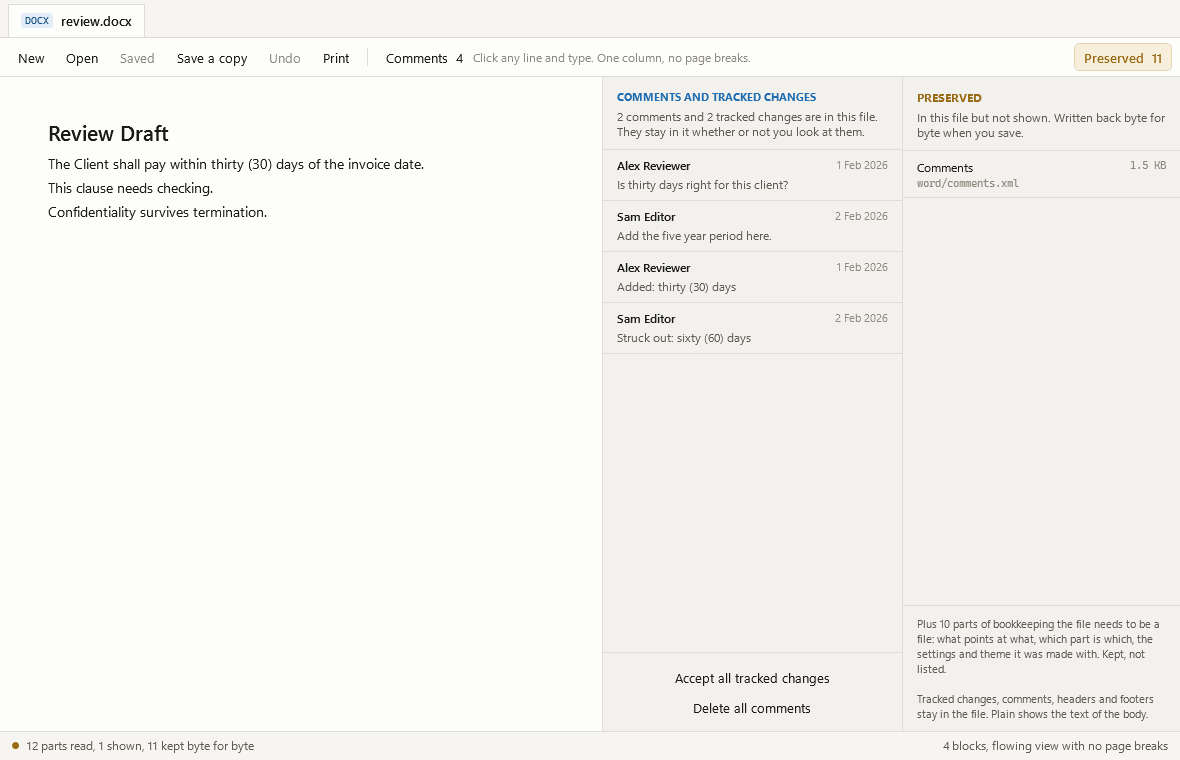
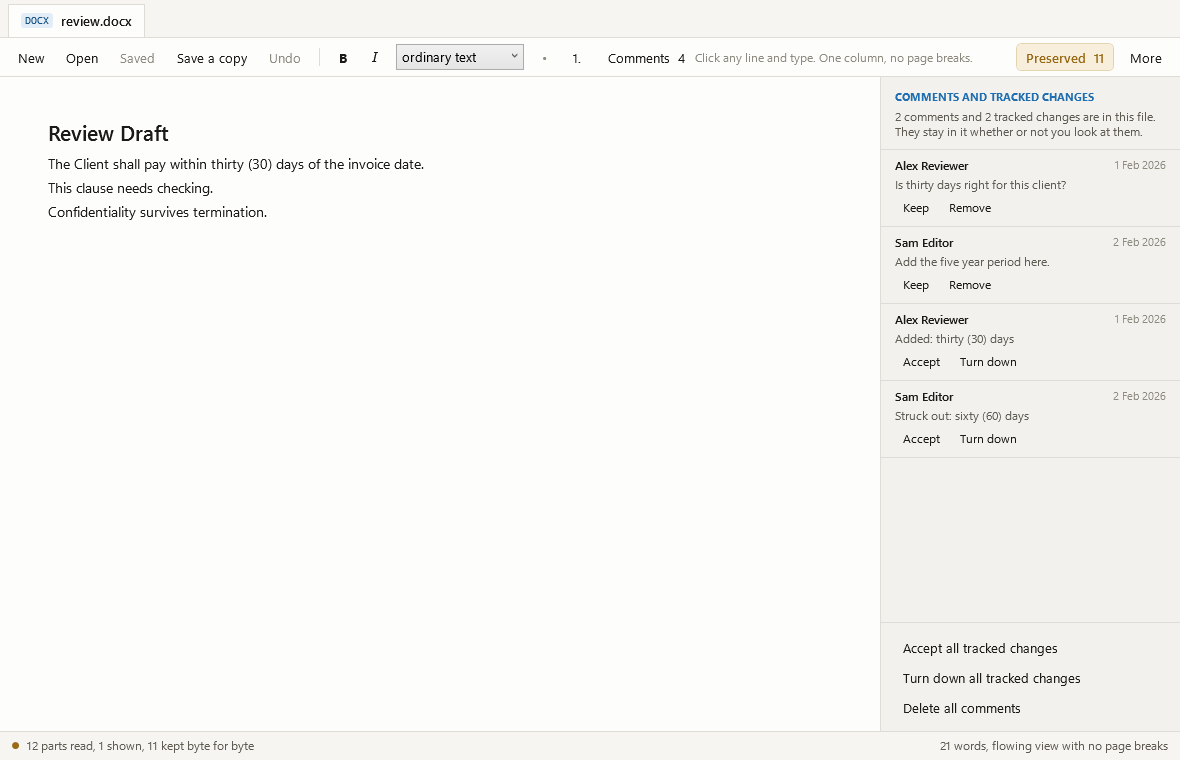
Keep the command row short
Adding ten features to a one-row interface pushed the preserved button off the
edge of the window; it was rendering as a single letter. Print, Save as PDF and
Reading move into one More menu, and the row is back to what it should be: the
five things done constantly, then whatever suits the file open, then the panels.

The menu also carries About, which shows the version. An IT department cannot
support three hundred people when answering "what version are you on" needs a
command prompt, and that was a blocker for the support panel.

diff --git a/src/Plain/MainWindow.xaml b/src/Plain/MainWindow.xaml
@@ -33,8 +33,6 @@
         <Button x:Name="SaveBtn" Style="{StaticResource Flat}" Content="Save" Click="OnSave" DockPanel.Dock="Left" Margin="2,0,0,0"/>
         <Button x:Name="CopyBtn" Style="{StaticResource Flat}" Content="Save a copy" Click="OnSaveCopy" DockPanel.Dock="Left" Margin="2,0,0,0"/>
         <Button x:Name="UndoBtn" Style="{StaticResource Flat}" Content="Undo" Click="OnUndo" DockPanel.Dock="Left" Margin="2,0,0,0"/>
-        <Button x:Name="PrintBtn" Style="{StaticResource Flat}" Content="Print" Click="OnPrint" DockPanel.Dock="Left" Margin="2,0,0,0"/>
-        <Button x:Name="PdfBtn" Style="{StaticResource Flat}" Content="PDF" Click="OnPdf" DockPanel.Dock="Left" Margin="2,0,0,0" ToolTip="Write this out as a PDF"/>
         <Border x:Name="Sep1" Width="1" Background="{DynamicResource Line}" Height="18" Margin="8,0" DockPanel.Dock="Left"/>
         <Button x:Name="BoldBtn" Style="{StaticResource Flat}" Content="B" FontWeight="Bold" Width="30"
                 Click="OnBold" DockPanel.Dock="Left" Visibility="Collapsed" ToolTip="Bold (Ctrl+B)"/>
@@ -55,8 +53,19 @@
                 DockPanel.Dock="Left" Visibility="Collapsed"/>
         <Button x:Name="PicturesBtn" Style="{StaticResource Flat}" Content="Pictures" Click="OnTogglePictures"
                 DockPanel.Dock="Left" Margin="2,0,0,0" Visibility="Collapsed"/>
-        <Button x:Name="SettingsBtn" Style="{StaticResource Flat}" Content="Reading" Click="OnSettings"
-                DockPanel.Dock="Right" Margin="6,0,0,0" ToolTip="Font, paper colour and spacing"/>
+        <Button x:Name="MoreBtn" Style="{StaticResource Flat}" Content="More" Click="OnMore"
+                DockPanel.Dock="Right" Margin="6,0,0,0">
+          <Button.ContextMenu>
+            <ContextMenu x:Name="MoreMenu">
+              <MenuItem Header="Print…" Click="OnPrint" InputGestureText="Ctrl+P"/>
+              <MenuItem Header="Save as PDF…" Click="OnPdf"/>
+              <Separator/>
+              <MenuItem Header="Reading…" Click="OnSettings"/>
+              <Separator/>
+              <MenuItem x:Name="AboutItem" Header="About Plain" Click="OnAbout"/>
+            </ContextMenu>
+          </Button.ContextMenu>
+        </Button>
         <TextBlock x:Name="ContextHint" DockPanel.Dock="Left" VerticalAlignment="Center"
                    Foreground="{DynamicResource Ink3}" FontSize="12"/>
         <Button x:Name="KeepBtn" Style="{StaticResource Flat}" Click="OnToggleRail" DockPanel.Dock="Right"

diff --git a/src/Plain/MainWindow.xaml.cs b/src/Plain/MainWindow.xaml.cs
@@ -511,6 +511,30 @@ public partial class MainWindow : Window
         Say($"Turned down {settled} tracked change{(settled == 1 ? "" : "s")}: what was struck out is back.");
     }
 
+    private void OnMore(object sender, RoutedEventArgs e)
+    {
+        if (sender is not Button button || button.ContextMenu is null) return;
+        button.ContextMenu.PlacementTarget = button;
+        button.ContextMenu.Placement = System.Windows.Controls.Primitives.PlacementMode.Bottom;
+        button.ContextMenu.IsOpen = true;
+    }
+
+    /// <summary>
+    /// Which version this is, and where the help lives. An IT department cannot support three hundred people if the
+    /// first question on every call needs a command prompt to answer.
+    /// </summary>
+    private void OnAbout(object sender, RoutedEventArgs e)
+    {
+        MessageBox.Show(this,
+            $"Plain for Windows {Cli.Version}\n\n" +
+            "Opens Word, Excel and PowerPoint files, edits the basics, and never damages what it doesn't understand.\n\n" +
+            "The panel on the right names everything in a file that Plain keeps but cannot draw. All of it is written " +
+            "back exactly as it was found, so nothing you cannot see is at risk when you save.\n\n" +
+            "Free and MIT licensed. No account, no cloud, nothing sent anywhere.\n\n" +
+            $"Settings and kept copies live in:\n{Settings.Folder}",
+            "About Plain", MessageBoxButton.OK, MessageBoxImage.Information);
+    }
+
     private void OnSettings(object sender, RoutedEventArgs e)
     {
         var dialog = new ReadingSettings(_settings) { Owner = this };
@@ -913,7 +937,7 @@ public partial class MainWindow : Window
             _ => "",
         };
 
-        PrintBtn.IsEnabled = _active is not null;
+        MoreBtn.IsEnabled = true;
         FormatPicker.Visibility = _active?.File.Kind == FileKind.Spreadsheet ? Visibility.Visible : Visibility.Collapsed;
 
         if (_active is null)
